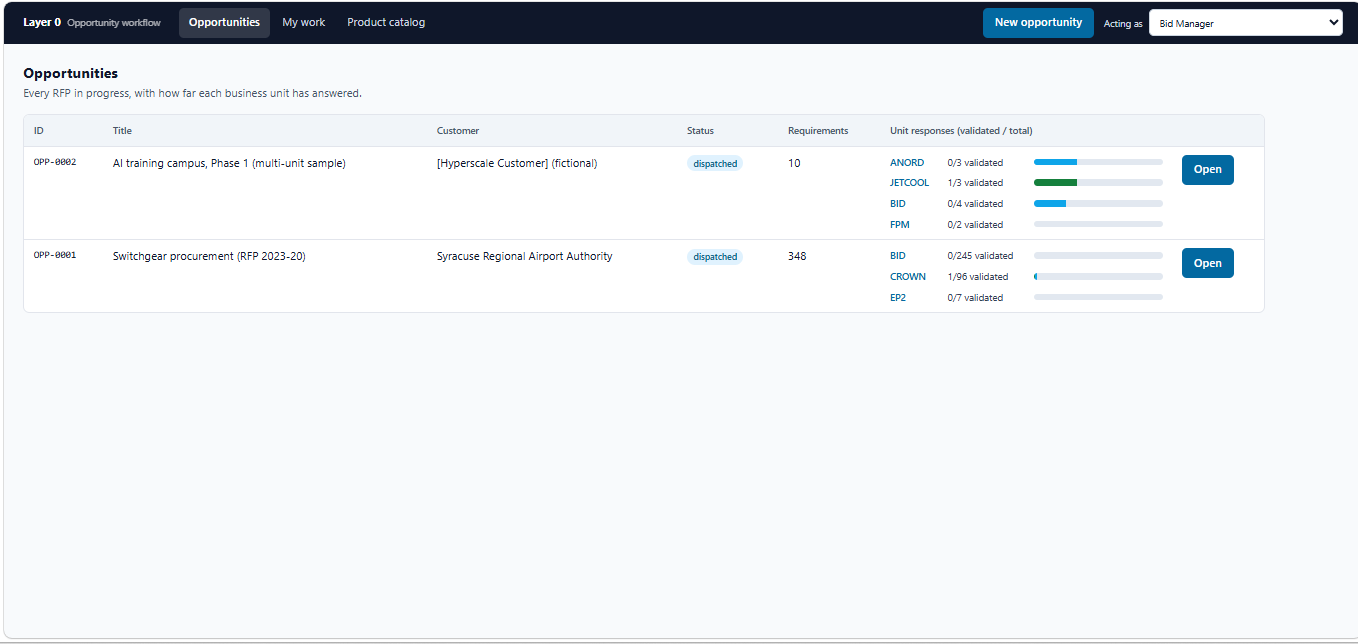
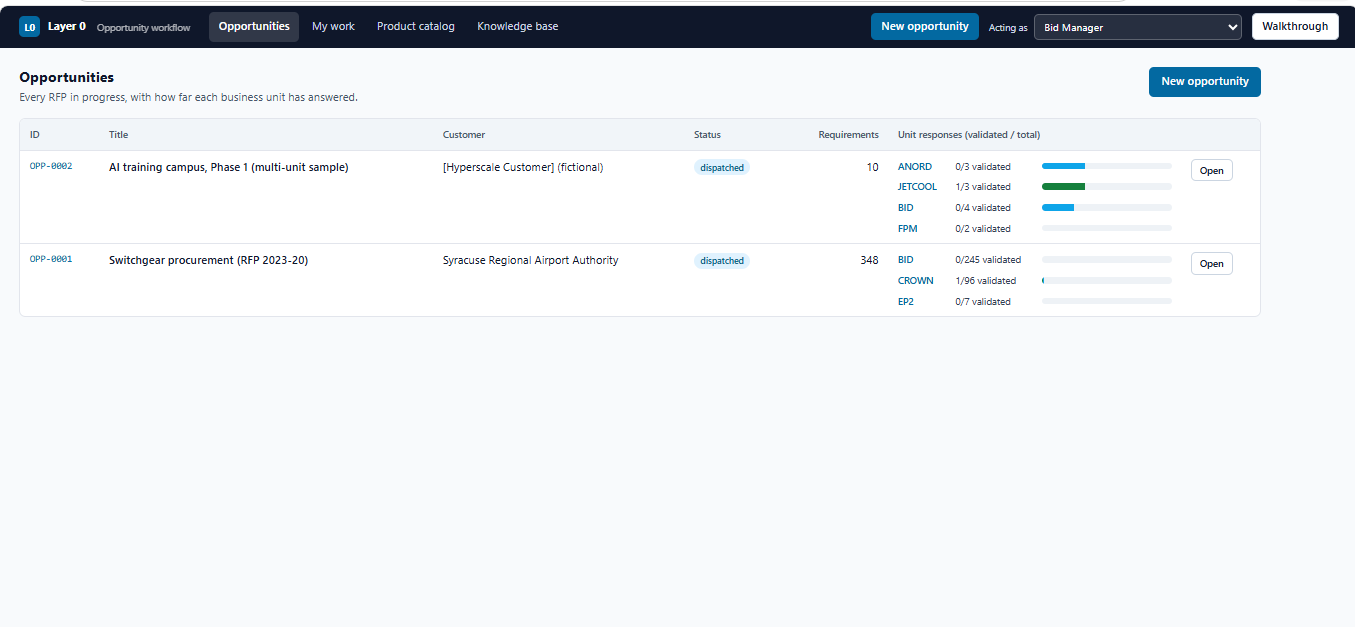
[J-03] walkthrough: refresh current application screenshots

diff --git a/team/tracker/janvia.md b/team/tracker/janvia.md
@@ -8,7 +8,7 @@ Task details and dependencies: [team/PLAN.md](../PLAN.md).
 |---|---|---|---|---|---|
 | J-01 | Clone, `.venv`, seed, run; open the three screens; read `.claude/CLAUDE.md` | S0 | Thu 8 Oct | done | app run locally: walkthrough screenshots taken from it (60faf7a) |
 | J-02 | Polish the three screens for the walkthrough: layout, legend (CTO / Semi-custom / ETO), selected-row and highlight styles, empty states | S1 | Fri 9 Oct AM | done | fed8c0a legend, selected row, status badges, empty states, a11y; follow-ups 0e7f3d8 client wording, bd946ed error message instead of endless loading |
-| J-03 | Walkthrough document `Documents/walkthrough.md` with screenshots (`Documents/images/`), neutral voice | S1 | Fri 9 Oct | review | 60faf7a walkthrough + 12 screenshots. Review 9 Oct: not client-ready yet; checklist below. Refresh: 10 screenshots from the current UI, text on current names, checklist 1, 3, 4, 10, 11 done; items 2, 5-9 open; 93e695a. 12 Oct: screenshots 01, 02, 07, 08, 10 refreshed from the 12 Oct captures (data now 348 requirements); 03, 04, 05, 06, 09 still to retake: the uploaded ones showed OPP-0002 and came from a web build older than main; 5b572a4 |
+| J-03 | Walkthrough document `Documents/walkthrough.md` with screenshots (`Documents/images/`), neutral voice | S1 | Fri 9 Oct | done | 60faf7a walkthrough + 12 screenshots. Review 9 Oct: not client-ready yet; checklist below. Refresh: 10 screenshots from the current UI, text on current names, checklist 1, 3, 4, 10, 11 done; items 2, 5-9 open; 93e695a. 12 Oct: screenshots 01, 02, 07, 08, 10 refreshed from the 12 Oct captures (data now 348 requirements); 03, 04, 05, 06, 09 still to retake: the uploaded ones showed OPP-0002 and came from a web build older than main; 5b572a4. 12 Oct, done: 03, 04, 05, 06, 09 retaken on OPP-0001 from a current web build (all ten screenshots now refreshed); 04, 06, 10 are full-page images joined from several captures and 09 from three (REQ-0816 present, every row once); text not touched. Checklist items 5-9 (text) were not part of this refresh and are not closed by it |
 | J-04 | Portfolio: per-unit progress bars, status chips, link to each unit's inbox | S2 | Sat 10 Oct | done | per-unit two-segment bars (validated, awaiting validation), status chips, unit names link to `/inbox/<unit>`, "not dispatched" when empty; `web/app/portfolio/page.tsx` + `globals.css` only; build and pytest green; cb08a93 |
 | J-05 | Consolidation page: blocking items link to the three screens; compliance-matrix columns reviewed with the bid-manager view | S3 | Sun 11 Oct | done | parts A+B 3827902 (blockers panel by reason, All/Open filter, links to Traceability, coloured badges); part C: compliance matrix CSV gets Assignment status and Responded by (appended, earlier columns unchanged) and a UTF-8 byte order mark for Excel; self-check and smoke test added; 8ac51a2 |
 | J-06 | Monday demo click-path checklist (in the walkthrough) and a dry run with Piyush | S3 | Mon 12 Oct AM | doing | `team/demo-checklist.md`: click path, script, value messages, backup paths, FAQ, dry-run list, risks (kept in team/, not Documents/: it names the team and lists internal risks). Dry run with Piyush still to do; eb2fd50 |
@@ -30,7 +30,7 @@ Voice, structure and the "Planned" labels are good. Fix the items below before t
 - [x] 11. Add a date line at the top: "Walkthrough as of <date>", naming the build it describes.
 
 **After P-08 (the demo runs on the real extraction):**
-- [ ] 2. Retake all 12 screenshots. They show the old navigation, the old legend and the Next.js development badge (the "N" bottom left). Take them from a production build (`cd web && npm run build && npm start`). 9 Oct: 10 screenshots refreshed from the current UI (Requirements, Bid decision and Final response each joined from two captures). Still open: retake from a production build (no "N" badge). 12 Oct: 5 of 10 refreshed (01, 02, 07, 08, 10). To retake for OPP-0001 from a rebuilt web server (`cd web && npm run build`, restart `npm start`): 03 RFP, 04 Requirements, 05 Traceability, 06 Bid decision, 09 Final response. The server on port 3000 was a 9 Oct build, so the top bar lacks Knowledge base and the stepper still says Changes (planned).
+- [x] 2. Retake all 12 screenshots. They show the old navigation, the old legend and the Next.js development badge (the "N" bottom left). Take them from a production build (`cd web && npm run build && npm start`). 9 Oct: 10 screenshots refreshed from the current UI (Requirements, Bid decision and Final response each joined from two captures). Done 12 Oct: all ten screenshots refreshed from the current UI; 01, 02, 07, 08, 10 in the first pass and 03, 04, 05, 06, 09 on OPP-0001 in the second.
 - [ ] 5. §7 Requirements: 9 Oct: filters and search are described; review actions, freeze rule and the seven categories are still open.
   - the review actions: edit, split, merge, add a missed requirement, bulk approve/reject;
   - filters and search;
@@ -65,3 +65,4 @@ The Monday click-path checklist is J-06, a separate task.
 | 10 Oct 2026 | Piyush (team handover): demo checklist refreshed after the P-18 reader re-run renumbered the requirements: hero IDs (0887, 0889, 0336, 0893, 0815, 0141, 0001), counts (814 line items, 348 requirements), advice 6 of 9, Excel download (J-08), the deviation flag (A-10) in place of the FPM flag | dry run; J-03 retake |
 | 11 Oct 2026 | Piyush (team handover): walkthrough text updated (Changes built, current demo numbers, Excel matrix, response outline, knowledge base); RFP upload button can no longer be clicked twice; screenshots still to retake | J-03 screenshots; dry run |
 | 12 Oct 2026 | J-03 images: five screenshots refreshed (Opportunities, New opportunity, Acting as, My work, Product catalog). Five held back: the captures showed OPP-0002, partial pages and a web build older than main (no Knowledge base link, Changes still planned, CSV only). Text not touched | rebuild the web server, retake 03, 04, 05, 06, 09 on OPP-0001 |
+| 12 Oct 2026 | J-03 done: the five held-back screenshots retaken on OPP-0001 (RFP documents, Requirements, Traceability, Bid decision, Final response); Requirements, Bid decision, Product catalog and Final response are full-page images joined from overlapping captures, Final response from three (REQ-0816 present, no row repeated). Walkthrough text unchanged | J-06 dry run with Piyush; checklist items 5-9 if the text is revisited |
